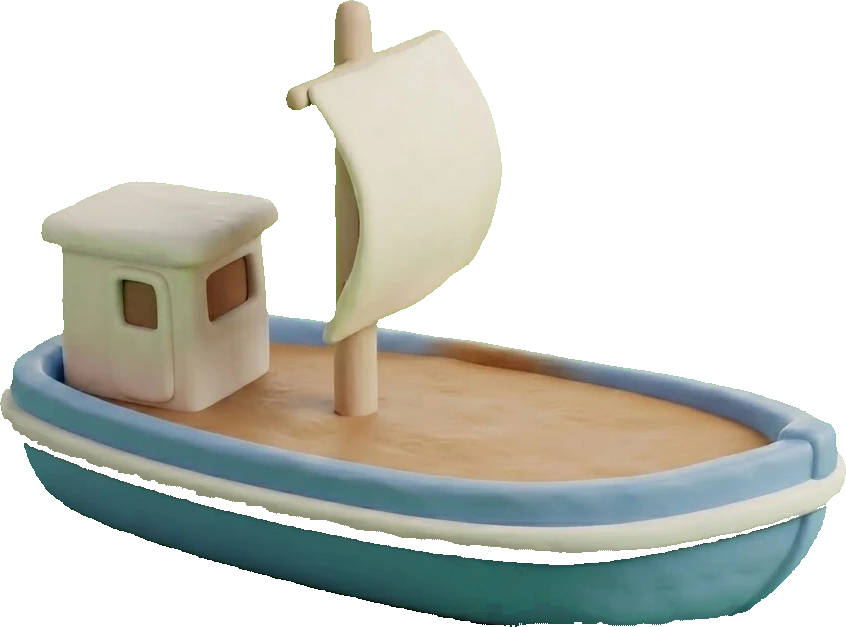
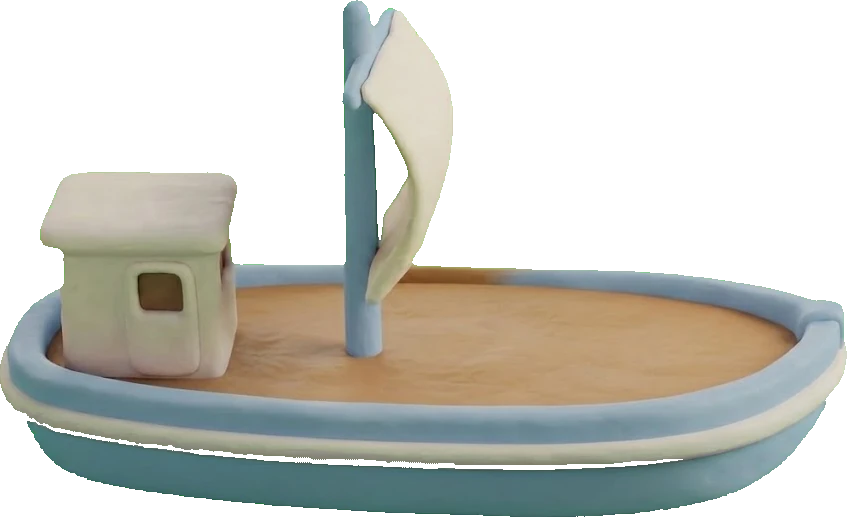
feat(math): Fyld Båden — straight side-view fishing boats (batch G), cargo re-seated on the deck
The first boats were turned at an angle, so straight cargo rows looked tilted and pasted on (owner).
The batch-G renders are straight from the side with the camera ~35° up: the deck is a level surface.
Geometry re-measured on the art (deck x 0.29–0.93, rows at 0.615 / 0.705, sail x 0.43–0.54), stage
unit re-derived for the 849:519 aspect, numeral sized for the narrower sail.

Rung 1+2: gesture/visibility probe 12/12 on Chrome and WebKit; no scroll on iPhone/iPad in both
orientations.

diff --git a/src/components/math/boat/boatLooks.ts b/src/components/math/boat/boatLooks.ts
@@ -5,8 +5,8 @@ import boatPaleblue from '../../../assets/games/boat/boat-paleblue.webp'
 
 /**
  * The four fishing boats rotate per boat — pure visual variety, nothing to collect (Harbour PRD-01
- * §2.2.13). Same shape, only the colours differ (owner's Gemini renders, 2026-10-14). `ink` colours the
- * numeral painted on the sail.
+ * §2.2.13). Same shape, only the colours differ (owner's Gemini renders, batch G, 2026-10-14). `ink`
+ * colours the numeral painted on the sail.
  */
 export const BOAT_LOOKS = [
   { name: 'red', art: boatRed, ink: '#B3261E' },
@@ -15,27 +15,28 @@ export const BOAT_LOOKS = [
   { name: 'paleblue', art: boatPaleblue, ink: '#2B6CA3' },
 ] as const
 
-/** All four renders share one shape; this is boat-red.webp's box (846 × 637). */
-export const BOAT_ASPECT = 846 / 637
+/** All four renders share one shape and camera; this is boat-red.webp's box (849 × 519). */
+export const BOAT_ASPECT = 849 / 519
 
 /**
- * Where things sit ON the boat art, as fractions of the boat image's box — measured on the renders, so
- * placement derives from the art rather than from content it doesn't know (layout-contract.md).
- * The cargo area is the open deck RIGHT of the wheelhouse; the sail is the blank cream sail.
+ * Where things sit ON the boat art, as fractions of the boat image's box — measured on the batch-G
+ * renders (straight side view, camera ~35° up, deck edge horizontal), so placement derives from the art
+ * rather than from content it doesn't know (layout-contract.md). The first, angled boats made straight
+ * cargo rows look tilted and pasted on; that is why they were replaced.
  */
 export const BOAT_GEOMETRY = {
   /** The deck drop zone (generous, so a drop anywhere over the deck lands). */
-  deck: { left: 0.3, top: 0.36, width: 0.68, height: 0.44 },
-  /** Back row (boxes) and front row (fish), centre lines and horizontal span, as fractions of the boat. */
-  // Both rows stand ON the deck surface (0.53 floated the boxes over the far rim — first screenshot).
+  deck: { left: 0.26, top: 0.4, width: 0.72, height: 0.42 },
+  /** Back row (boxes) and front row (fish): centre lines and horizontal span, from wheelhouse to bow. */
   rows: {
-    left: 0.35,
-    right: 0.94,
-    boxes: 0.585,
-    fish: 0.715,
+    left: 0.29,
+    right: 0.93,
+    // 0.575 / 0.675 stood the boxes on the far rim (screenshot, 2026-10-14) — both rows sit mid-deck.
+    boxes: 0.615,
+    fish: 0.705,
   },
-  /** The sail (right of the mast at x ≈ 0.41), for the numeral. */
-  sail: { left: 0.415, top: 0.07, width: 0.18, height: 0.38 },
-  /** The horn stands on the bow deck (it floated in the sky when anchored off the boat's box). */
-  horn: { left: 0.835, top: 0.43, width: 0.13 },
+  /** The sail, for the numeral. */
+  sail: { left: 0.43, top: 0.03, width: 0.11, height: 0.42 },
+  /** The horn stands on the bow deck. */
+  horn: { left: 0.83, top: 0.36, width: 0.12 },
 } as const

diff --git a/src/components/math/boat/Boat.tsx b/src/components/math/boat/Boat.tsx
@@ -87,7 +87,7 @@ const Slot: React.FC<{
 // keeps its slot so the 5 + 5 stays countable.
 const Cargo: React.FC<{ kind: CargoKind }> = ({ kind }) =>
   kind === 'box' ? (
-    <Box sx={{ width: '118%', ml: '-9%', flex: '0 0 auto' }}>
+    <Box sx={{ width: '106%', ml: '-3%', flex: '0 0 auto' }}>
       <FishBoxView />
     </Box>
   ) : (
@@ -233,7 +233,7 @@ const Boat: React.FC<BoatProps> = ({
             animate={{ transform: 'scale(1) rotate(0deg)', opacity: 1 }}
             transition={{ duration: 0.4, ease: LAND_EASE }}
           >
-            <Typography component="span" sx={{ fontFamily: '"Comic Sans MS", "Comic Neue", cursive', fontWeight: 800, fontSize: 'calc(var(--bw) * 0.1)', lineHeight: 1, color: L.ink, textShadow: '0 2px 0 rgba(255,255,255,0.6)' }}>
+            <Typography component="span" sx={{ fontFamily: '"Comic Sans MS", "Comic Neue", cursive', fontWeight: 800, fontSize: 'calc(var(--bw) * 0.062)', lineHeight: 1, whiteSpace: 'nowrap', color: L.ink, textShadow: '0 2px 0 rgba(255,255,255,0.6)' }}>
               {sailNumber}
             </Typography>
           </motion.div>
@@ -260,7 +260,7 @@ const Boat: React.FC<BoatProps> = ({
       {/* The send-off: a wake splash at the STERN as the boat sets off (a delight AFTER the answer, never
           during it). At the bow it was already off-screen — the boat leaves to the right. */}
       {departing && !reduce && (
-        <Box sx={{ position: 'absolute', left: '-12%', top: '60%', width: '28%', pointerEvents: 'none' }}>
+        <Box sx={{ position: 'absolute', left: '-12%', top: '52%', width: '28%', pointerEvents: 'none' }}>
           <motion.div
             initial={{ transform: 'translateY(20%) scale(0.3)', opacity: 0 }}
             animate={{ transform: ['translateY(20%) scale(0.3)', 'translateY(0%) scale(1.05)', 'translateY(-10%) scale(1.2)'], opacity: [0, 1, 0] }}

diff --git a/src/components/math/FyldBaadenGame.tsx b/src/components/math/FyldBaadenGame.tsx
@@ -394,18 +394,18 @@ const FyldBaadenGame: React.FC = () => {
           sx={{ flex: 1, minHeight: 0, containerType: 'size', position: 'relative' }}>
           <Box
             sx={{
-              // Landscape: quay (5.2) | boat art (13.5, ≈10.2 tall at its 846:637 aspect) side by side.
+              // Landscape: quay (5.2) | boat art (13.5, ≈8.3 tall at its 849:519 aspect) side by side.
               // Portrait: the quay is a pier ABOVE the moored boat (15 wide), so the boat gets the full
               // width instead of half a screen of empty sky. `--bw` is the boat's width — the Boat sizes
               // everything inside from it.
-              '--s': 'min(calc(100cqw / 19.2), calc(100cqh / 10.6), 80px)',
+              '--s': 'min(calc(100cqw / 19.2), calc(100cqh / 9), 80px)',
               '--bw': 'calc(var(--s) * 13.5)',
               height: '100%',
               display: 'flex',
               flexDirection: 'row',
               alignItems: 'stretch',
               '@media (orientation: portrait)': {
-                '--s': 'min(calc(100cqw / 15.6), calc(100cqh / 18.6), 80px)',
+                '--s': 'min(calc(100cqw / 15.6), calc(100cqh / 17), 80px)',
                 '--bw': 'calc(var(--s) * 15)',
                 flexDirection: 'column',
                 // The pier sits right above the moored boat, not stranded at the top of the sea.
